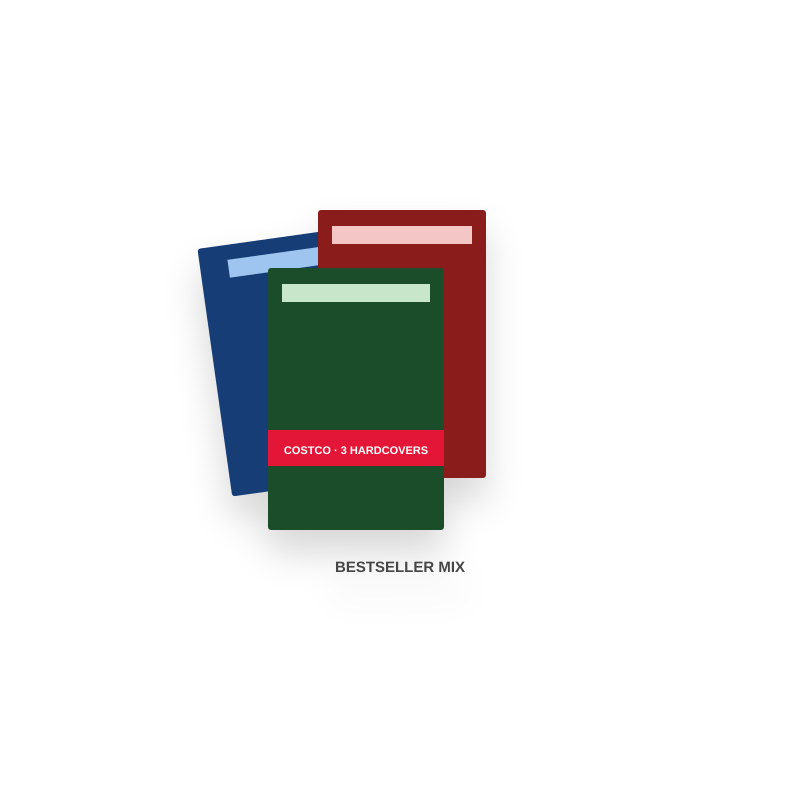
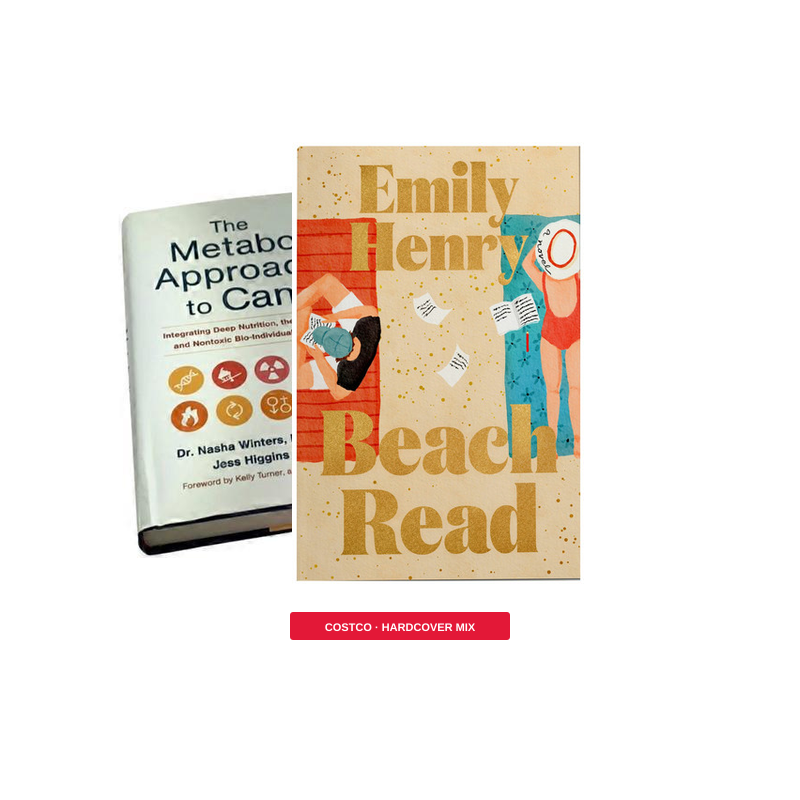
Replace Jason's and hardcover tiles with pack photography
Swap the remaining clip-art bakery and book tiles for photographic
composites, and tighten Same-Day chrome around search, cart, and Ask Kirk.

Changed region(s): [[0.125, 0.1562, 0.75, 0.8125]]

diff --git a/components/AskKirkChat.tsx b/components/AskKirkChat.tsx
@@ -537,7 +537,7 @@ export default function AskKirkChat({ isOpen, onClose }: AskKirkChatProps) {
           <button
             type="button"
             onClick={openCart}
-            className="mx-3.5 my-2 w-[calc(100%-1.75rem)] flex items-center justify-between rounded-[3px] bg-[#e8f2fa] border border-[#c5d8ea] px-3 py-2 text-left hover:bg-[#dceaf6]"
+            className="mx-3.5 my-2 w-[calc(100%-1.75rem)] flex items-center justify-between rounded-full bg-[#e8f2fa] border border-[#c5d8ea] px-3.5 py-2 text-left hover:bg-[#dceaf6]"
           >
             <span className="flex items-center gap-2 min-w-0">
               <ShoppingCart className="w-3.5 h-3.5 text-costco-blue shrink-0" />
@@ -580,7 +580,7 @@ export default function AskKirkChat({ isOpen, onClose }: AskKirkChatProps) {
                       Kirk
                     </p>
                     <p className="text-[11px] font-semibold text-costco-blue">
-                      Same-Day shopping help
+                      Kirkland Signature · Same-Day
                     </p>
                   </div>
                 </div>
@@ -714,7 +714,7 @@ export default function AskKirkChat({ isOpen, onClose }: AskKirkChatProps) {
               type="button"
               onClick={() => void sendMessage(chip)}
               disabled={isLoading}
-              className="px-2.5 py-1 bg-white hover:bg-[#e8f2fa] hover:border-costco-blue hover:text-costco-blue disabled:opacity-50 text-[#333] text-[11px] leading-snug rounded-full transition-colors border border-[#d0d0d0]"
+              className="px-2.5 py-1 bg-white hover:bg-[#e8f2fa] hover:border-costco-blue hover:text-costco-blue disabled:opacity-50 text-[#333] text-[11px] leading-snug rounded-full transition-colors border border-[#d0d0d0] max-w-full"
             >
               {chip}
             </button>

diff --git a/components/Header.tsx b/components/Header.tsx
@@ -107,7 +107,7 @@ export default function Header({ onAskKirkClick }: HeaderProps) {
         </div>
       </div>
 
-      <div className="bg-[#fafafa] border-b border-[#ececec]">
+      <div className="bg-white border-b border-[#ececec]">
       <div className="max-w-[1800px] mx-auto px-3 sm:px-4 py-2">
         <div className="flex items-center gap-2.5">
           <form
@@ -188,7 +188,7 @@ export default function Header({ onAskKirkClick }: HeaderProps) {
           >
             <ShoppingCart className="w-5 h-5 text-[#333]" />
             <span className="hidden sm:inline font-bold text-[13px] text-[#333]">
-              View cart
+              Cart
             </span>
             <span className="absolute -top-1.5 -right-1 min-w-[20px] h-[20px] px-1 bg-costco-blue text-white text-[11px] font-bold rounded-full flex items-center justify-center">
               {totalItems}

diff --git a/lib/data/products.ts b/lib/data/products.ts
@@ -303,7 +303,7 @@ export const products: Product[] = [
     price: 2.71,
     originalPrice: 4.0,
     savings: 1.29,
-    image: "/products/9.png?v=3",
+    image: "/products/9.png?v=5",
     inStock: true,
     tags: ["bakery"],
     rating: 3.9,
@@ -572,7 +572,7 @@ export const products: Product[] = [
     price: 14.99,
     originalPrice: 19.99,
     savings: 5.0,
-    image: "/products/17.png?v=3",
+    image: "/products/17.png?v=4",
     inStock: true,
     tags: ["books"],
     rating: 4.0,

diff --git a/components/ProductGrid.tsx b/components/ProductGrid.tsx
@@ -158,7 +158,7 @@ export default function ProductGrid() {
       <div className="mb-3 flex items-end justify-between gap-3 flex-wrap">
         <div>
           <h2 className="text-[22px] lg:text-[24px] font-bold text-[#1a1a1a] tracking-tight">
-            {titleBits.length ? titleBits.join(" · ") : "Weekly Savings"}
+            {titleBits.length ? titleBits.join(" · ") : "Shop Weekly Savings"}
           </h2>
           <p className="text-[13px] text-[#666] mt-0.5">
             {loading

diff --git a/components/ProductDetailModal.tsx b/components/ProductDetailModal.tsx
@@ -117,7 +117,7 @@ export default function ProductDetailModal({
               ) : (
                 <>
                   <Plus className="w-4 h-4" />
-                  {qty > 0 ? `Add · ${qty} in cart` : "Add to cart"}
+                  {qty > 0 ? `Add · ${qty} in cart` : "Add"}
                 </>
               )}
             </button>
